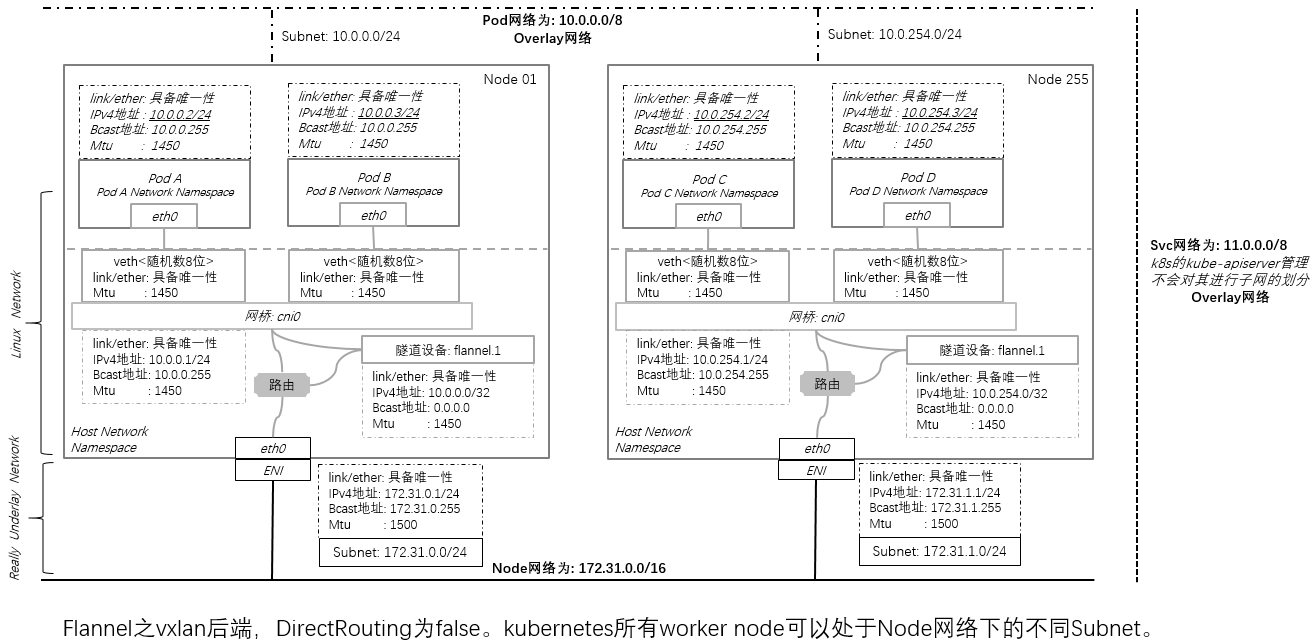
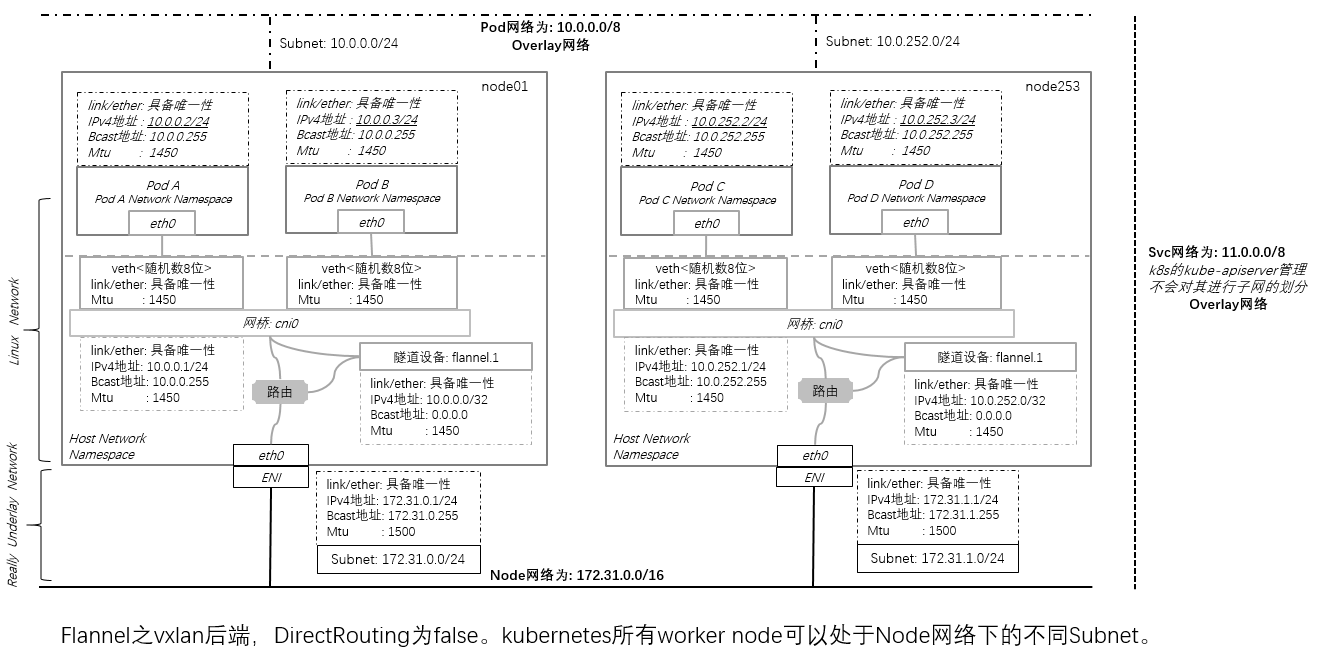
modified

diff --git a/90.Addons/01.cni/01.flannel/03.vxlan-And-DirectRouting-false/install-step-and-describe.md b/90.Addons/01.cni/01.flannel/03.vxlan-And-DirectRouting-false/install-step-and-describe.md
@@ -11,68 +11,74 @@ Destination     Gateway         Genmask         Flags Metric Ref    Use Iface
 10.0.1.0        10.0.1.0        255.255.255.0   UG    0      0        0 flannel.1
 10.0.2.0        10.0.2.0        255.255.255.0   UG    0      0        0 flannel.1
 10.0.3.0        10.0.3.0        255.255.255.0   UG    0      0        0 flannel.1
-............    ............    255.255.255.0   UG    0      0        0 flannel.1
-............    ............    255.255.255.0   UG    0      0        0 flannel.1
-10.0.253.0      10.0.253.0      255.255.255.0   UG    0      0        0 flannel.1   # Node网络下Subnet(172.31.0.0/24)中各节点从Pod网络得到的subnet,相关路由
+..........      ..........      255.255.255.0   UG    0      0        0 flannel.1
+..........      ..........      255.255.255.0   UG    0      0        0 flannel.1
+10.0.251.0      10.0.251.0      255.255.255.0   UG    0      0        0 flannel.1   # node01宿主机所在Node网络下其Sbunet中其它宿主机从Pod网分得subnet的路由
 
-10.0.254.0      10.0.254.0      255.255.255.0   UG    0      0        0 flannel.1   # Node网络下Subnet(172.31.1.0/24)中各节点从Pod网络得到的subnet,相关路由
+0.0.0.0         172.31.0.253    0.0.0.0         UG    0      0        0 eth0        # node01到所处Node网络下Subnet其网关的路由
+172.31.0.0      0.0.0.0         255.255.255.0   U     0      0        0 eth0        # node01到所处Node网络下Subnet其网关的路由
+
+10.0.252.0      10.0.252.0      255.255.255.0   UG    0      0        0 flannel.1
+10.0.253.0      10.0.253.0      255.255.255.0   UG    0      0        0 flannel.1
+10.0.254.0      10.0.254.0      255.255.255.0   UG    0      0        0 flannel.1
 10.0.255.0      10.0.255.0      255.255.255.0   UG    0      0        0 flannel.1
 10.1.0.0        10.1.0.0        255.255.255.0   UG    0      0        0 flannel.1
 10.1.1.0        10.1.1.0        255.255.255.0   UG    0      0        0 flannel.1
 ............    ............    255.255.255.0   UG    0      0        0 flannel.1
 ............    ............    255.255.255.0   UG    0      0        0 flannel.1
-10.1.251.0      10.1.251.0      255.255.255.0   UG    0      0        0 flannel.1
-
-0.0.0.0         172.31.0.255    0.0.0.0         UG    0      0        0 eth0        # node01到所处Node网络下Subnet其网关的路由 
-172.31.0.0      0.0.0.0         255.255.255.0   U     0      0        0 eth0        # node01到所处Node网络下Subnet其网关的路由 
+10.1.247.0      10.1.247.0      255.255.255.0   UG    0      0        0 flannel.1   # node01宿主机所在Node网绺下其Subnet之外Subnet中相关宿主机从Pod网络分得subnet的路由
 ```
 
 **Node网络下Subnet(172.31.0.0/24)下的节点(k8s node02)**
 ```
 Destination     Gateway         Genmask         Flags Metric Ref    Use Iface
-10.0.1.0        0.0.0.0         255.255.255.0   UG    0      0        0 cni0
+10.0.1.0        0.0.0.0         255.255.255.0   U     0      0        0 cni0
 
 10.0.0.0        10.0.0.0        255.255.255.0   UG    0      0        0 flannel.1
 10.0.2.0        10.0.2.0        255.255.255.0   UG    0      0        0 flannel.1
 10.0.3.0        10.0.3.0        255.255.255.0   UG    0      0        0 flannel.1
-............    ............    255.255.255.0   UG    0      0        0 flannel.1
-............    ............    255.255.255.0   UG    0      0        0 flannel.1
-10.0.253.0      10.0.253.0      255.255.255.0   UG    0      0        0 flannel.1   # Node网络下Subnet(172.31.0.0/24)中各节点从Pod网络得到的subnet,相关路由
+..........      ..........      255.255.255.0   UG    0      0        0 flannel.1
+..........      ..........      255.255.255.0   UG    0      0        0 flannel.1
+10.0.251.0      10.0.251.0      255.255.255.0   UG    0      0        0 flannel.1   # node02宿主机所在Node网络下其Sbunet中其它宿主机从Pod网分得subnet的路由     
 
-10.0.254.0      10.0.254.0      255.255.255.0   UG    0      0        0 flannel.1   # Node网络下Subnet(172.31.1.0/24)中各节点从Pod网络得到的subnet,相关路由
+0.0.0.0         172.31.0.253    0.0.0.0         UG    0      0        0 eth0        # node02到所处Node网络下Subnet其网关的路由
+172.31.0.0      0.0.0.0         255.255.255.0   U     0      0        0 eth0        # node02到所处Node网络下Subnet其网关的路由
+
+10.0.252.0      10.0.252.0      255.255.255.0   UG    0      0        0 flannel.1
+10.0.253.0      10.0.253.0      255.255.255.0   UG    0      0        0 flannel.1
+10.0.254.0      10.0.254.0      255.255.255.0   UG    0      0        0 flannel.1
 10.0.255.0      10.0.255.0      255.255.255.0   UG    0      0        0 flannel.1
 10.1.0.0        10.1.0.0        255.255.255.0   UG    0      0        0 flannel.1
 10.1.1.0        10.1.1.0        255.255.255.0   UG    0      0        0 flannel.1
 ............    ............    255.255.255.0   UG    0      0        0 flannel.1
 ............    ............    255.255.255.0   UG    0      0        0 flannel.1
-10.1.251.0      10.1.251.0      255.255.255.0   UG    0      0        0 flannel.1
-
-0.0.0.0         172.31.0.255    0.0.0.0         UG    0      0        0 eth0        # node02到所处Node网络下Subnet其网关的路由
-172.31.0.0      0.0.0.0         255.255.255.0   U     0      0        0 eth0        # node02到所处Node网络下Subnet其网关的路由
+10.1.247.0      10.1.247.0      255.255.255.0   UG    0      0        0 flannel.1   # node02宿主机所在Node网绺下其Subnet之外Subnet中相关宿主机从Pod网络分得subnet的路由
 ```
 
-**Node网络下Subnet(172.31.1.0/24)下的节点(k8s node255)**
+**Node网络下Subnet(172.31.1.0/24)下的节点(k8s node253)**
 ```
 Destination     Gateway         Genmask         Flags Metric Ref    Use Iface
+10.0.252.0      0.0.0.0         255.255.255.0   U     0      0        0 cni0
+
+10.0.253.0      10.0.253.0      255.255.255.0   UG    0      0        0 flannel.1
+10.0.254.0      10.0.254.0      255.255.255.0   UG    0      0        0 flannel.1
+10.0.255.0      10.0.255.0      255.255.255.0   UG    0      0        0 flannel.1
+10.1.0.0        10.1.0.0        255.255.255.0   UG    0      0        0 flannel.1
+10.1.1.0        10.1.1.0        255.255.255.0   UG    0      0        0 flannel.1
+..........      ..........      255.255.255.0   UG    0      0        0 flannel.1
+..........      ..........      255.255.255.0   UG    0      0        0 flannel.1
+10.1.247.0      10.1.247.0      255.255.255.0   UG    0      0        0 flannel.1   # node253宿主机所在Node网络下其Sbunet中其它宿主机从Pod网分得subnet的路由 
+
+0.0.0.0         172.31.1.253    0.0.0.0         UG    0      0        0 eth0        # node253到所处Node网络下Subnet其网关的路由
+172.31.1.0      0.0.0.0         255.255.255.0   U     0      0        0 eth0        # node253到所处Node网络下Subnet其网关的路由
+
 10.0.0.0        10.0.0.0        255.255.255.0   UG    0      0        0 flannel.1
 10.0.1.0        10.0.1.0        255.255.255.0   UG    0      0        0 flannel.1
 10.0.2.0        10.0.2.0        255.255.255.0   UG    0      0        0 flannel.1
 10.0.3.0        10.0.3.0        255.255.255.0   UG    0      0        0 flannel.1
-............    ............    255.255.255.0   UG    0      0        0 flannel.1
-............    ............    255.255.255.0   UG    0      0        0 flannel.1
-10.0.253.0      10.0.253.0      255.255.255.0   UG    0      0        0 flannel.1   # Node网络下Subnet(172.31.0.0/24)中各节点从Pod网络得到的subnet,相关路由
-
-10.0.254.0      0.0.0.0         255.255.255.0   UG    0      0        0 cni0
-
-10.0.255.0      10.0.255.0      255.255.255.0   UG    0      0        0 flannel.1   # Node网络下Subnet(172.31.1.0/24)中各节点从Pod网络得到的subnet,相关路由
-10.1.0.0        10.1.0.0        255.255.255.0   UG    0      0        0 flannel.1
-10.1.1.0        10.1.1.0        255.255.255.0   UG    0      0        0 flannel.1
-............    ............    255.255.255.0   UG    0      0        0 flannel.1
-............    ............    255.255.255.0   UG    0      0        0 flannel.1
-10.1.251.0      10.1.251.0      255.255.255.0   UG    0      0        0 flannel.1
-
-0.0.0.0         172.31.1.255    0.0.0.0         UG    0      0        0 eth0        # node255到所处Node网络下Subnet其网关的路由
-172.31.1.0      0.0.0.0         255.255.255.0   U     0      0        0 eth0        # node255到所处Node网络下Subnet其网关的路由
+..........      ..........      255.255.255.0   UG    0      0        0 flannel.1
+..........      ..........      255.255.255.0   UG    0      0        0 flannel.1
+10.0.251.0      10.0.251.0      255.255.255.0   UG    0      0        0 flannel.1   # node253宿主机所在Node网绺下其Subnet之外Subnet中相关宿主机从Pod网络分得subnet的路由 
 ```
 
 ## 1.3 同宿主机上Pod间的通信
